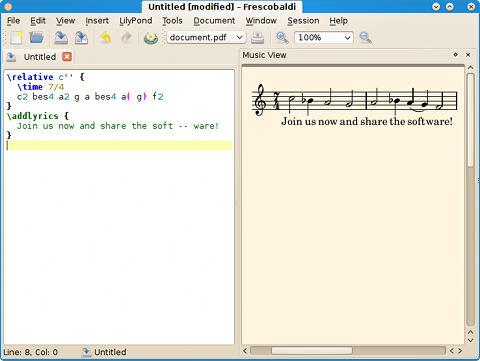
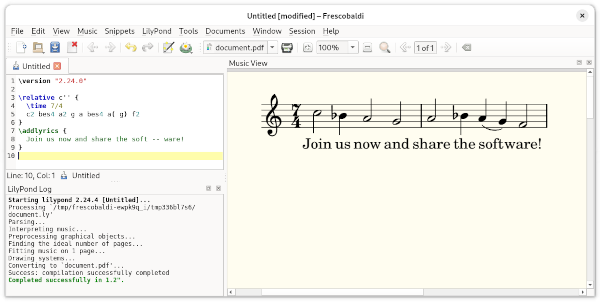
Update the user manual
Update the screenshots using version 4.0.0.
Update the menu paths/names.

Shift-drag on the Music view to select some music to copy to
image doesn't work anymore; only mouse right-click does it.

diff --git a/frescobaldi_app/userguide/__init__.py b/frescobaldi_app/userguide/__init__.py
@@ -1,4 +1,4 @@
-# This file is part of the Frescobaldi project, http://www.frescobaldi.org/
+# This file is part of the Frescobaldi project, https://www.frescobaldi.org/
 #
 # Copyright (c) 2013 - 2014 by Wilbert Berendsen
 #

diff --git a/frescobaldi_app/userguide/browser.py b/frescobaldi_app/userguide/browser.py
@@ -1,4 +1,4 @@
-# This file is part of the Frescobaldi project, http://www.frescobaldi.org/
+# This file is part of the Frescobaldi project, https://www.frescobaldi.org/
 #
 # Copyright (c) 2008 - 2014 by Wilbert Berendsen
 #

diff --git a/frescobaldi_app/userguide/export.py b/frescobaldi_app/userguide/export.py
@@ -1,4 +1,4 @@
-# This file is part of the Frescobaldi project, http://www.frescobaldi.org/
+# This file is part of the Frescobaldi project, https://www.frescobaldi.org/
 #
 # Copyright (c) 2008 - 2014 by Wilbert Berendsen
 #

diff --git a/frescobaldi_app/userguide/page.py b/frescobaldi_app/userguide/page.py
@@ -1,4 +1,4 @@
-# This file is part of the Frescobaldi project, http://www.frescobaldi.org/
+# This file is part of the Frescobaldi project, https://www.frescobaldi.org/
 #
 # Copyright (c) 2013 - 2014 by Wilbert Berendsen
 #

diff --git a/frescobaldi_app/userguide/read.py b/frescobaldi_app/userguide/read.py
@@ -1,4 +1,4 @@
-# This file is part of the Frescobaldi project, http://www.frescobaldi.org/
+# This file is part of the Frescobaldi project, https://www.frescobaldi.org/
 #
 # Copyright (c) 2013 - 2014 by Wilbert Berendsen
 #

diff --git a/frescobaldi_app/userguide/resolve.py b/frescobaldi_app/userguide/resolve.py
@@ -1,4 +1,4 @@
-# This file is part of the Frescobaldi project, http://www.frescobaldi.org/
+# This file is part of the Frescobaldi project, https://www.frescobaldi.org/
 #
 # Copyright (c) 2013 - 2014 by Wilbert Berendsen
 #

diff --git a/frescobaldi_app/userguide/util.py b/frescobaldi_app/userguide/util.py
@@ -1,4 +1,4 @@
-# This file is part of the Frescobaldi project, http://www.frescobaldi.org/
+# This file is part of the Frescobaldi project, https://www.frescobaldi.org/
 #
 # Copyright (c) 2008 - 2014 by Wilbert Berendsen
 #

diff --git a/frescobaldi_app/userguide/whatsthis.py b/frescobaldi_app/userguide/whatsthis.py
@@ -1,4 +1,4 @@
-# This file is part of the Frescobaldi project, http://www.frescobaldi.org/
+# This file is part of the Frescobaldi project, https://www.frescobaldi.org/
 #
 # Copyright (c) 2008 - 2014 by Wilbert Berendsen
 #

diff --git a/frescobaldi_app/userguide/getstarted.md b/frescobaldi_app/userguide/getstarted.md
@@ -15,9 +15,9 @@ Now, in the text view, enter some LilyPond code, like this:
 }
 ```
 
-Then click the Lily toolbar button or press {key_engrave}. LilyPond will 
-start to processes your file and the PDF will be displayed in the Music View 
-on the right. If LilyPond encounters any errors or warnings they will be 
+Then click the Engrave button (LilyPond icon) on the toolbar or press {key_engrave}.
+LilyPond will start to process your file and the PDF will be displayed in the Music
+View on the right. If LilyPond encounters any errors or warnings they will be
 displayed in the LilyPond Log at the bottom of the screen.
 
 {image_getting_started}
@@ -38,7 +38,7 @@ The Music View has many possibilities:
   the Music View; press {key_jump} to explicitly center and highlight a note or
   other objects in the Music View.
 
-* Shift-drag a selection and then press {key_copy_image} or {menu_copy_image}
+* Right-click a selection with the mouse and then press {key_copy_image} or {menu_copy_image}
   to copy the selected music as a raster image to the clipboard, a file or
   another application.
 

diff --git a/frescobaldi_app/userguide/musicview.md b/frescobaldi_app/userguide/musicview.md
@@ -1,4 +1,4 @@
-=== The Music View ===
+=== Music View ===
 
 The Music View displays the PDF document created by LilyPond.
 
@@ -22,8 +22,8 @@ You can also adjust the view:
 * Hold Control or Command and left-click to display a magnifier glass
 * Configure the background color under {settings_preview_background}
 
-You can copy music right from the PDF view to a raster image: Hold Shift and 
-drag a rectangular selection (or use the right mouse button) and then press 
+You can copy music right from the PDF view to a raster image: use the right
+mouse button to drag a rectangular selection, then press
 {key_music_copy_image} or select {menu_music_copy_image} to copy the 
 selected music as a raster image to the clipboard, a file or another 
 application.

diff --git a/frescobaldi_app/userguide/musicview_editinplace.md b/frescobaldi_app/userguide/musicview_editinplace.md
@@ -1,11 +1,11 @@
 === Edit in Place ===
 
+You can open the *Edit in Place* dialog by Shift-clicking a clickable object in
+the Music View or by right-clicking the object and selecting {menu_editinplace}.
+
 In this dialog you can edit one line of the text document.
 
 Click OK or press {key_editinplace} to place the modified text in the document.
-
-You can open the *Edit in Place* dialog by Shift-clicking a clickable object in
-the Music View or by right-clicking the object and selecting {menu_editinplace}.
 
 #VARS
 key_editinplace text Ctrl+Return

diff --git a/frescobaldi_app/userguide/creating.md b/frescobaldi_app/userguide/creating.md
@@ -37,9 +37,9 @@ A third way to create a new document is to use the [scorewiz Score Wizard].
 #VARS
 key shortcut snippets ly_version
 preferences help prefs_general
-menu menu file -> New from &Template
-save_as_template menu file -> Save as Template...
-manage_templates menu file -> New from &Template -> Manage Templates...
+menu menu file -> New
+save_as_template menu file -> Save -> Save as Template...
+manage_templates menu file -> New -> Manage Templates...
 
 #SEEALSO
 snippets
